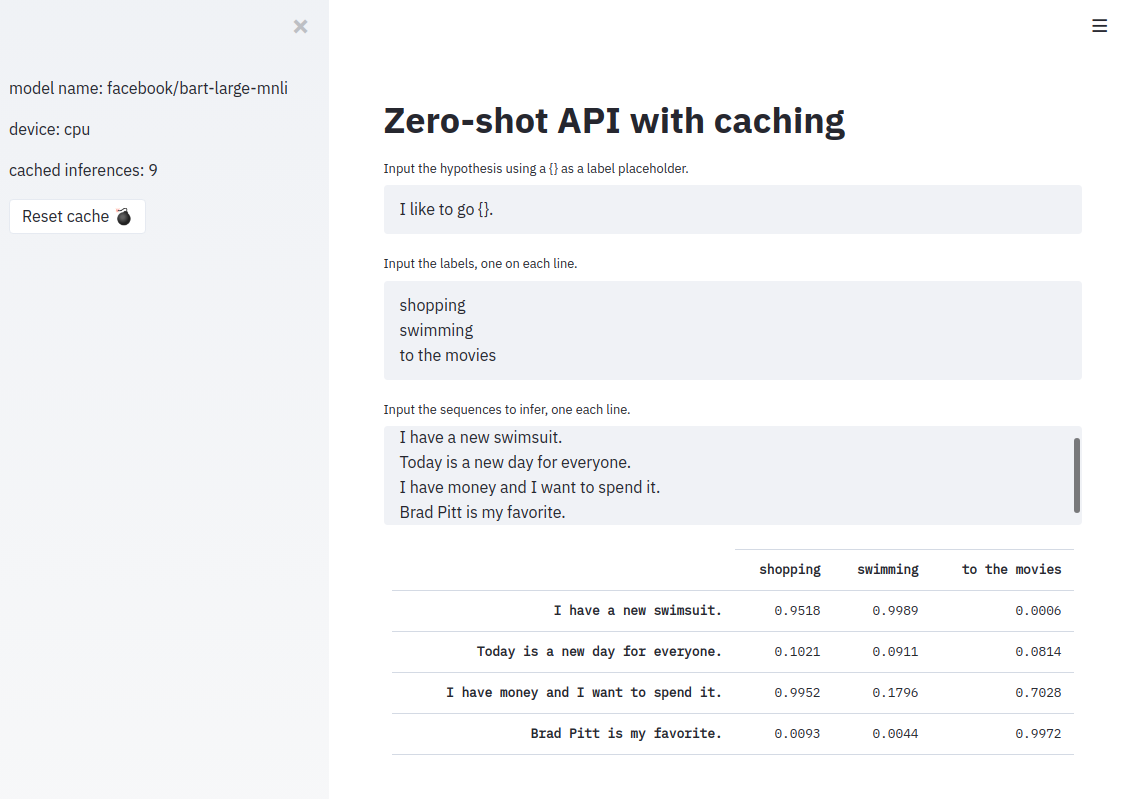
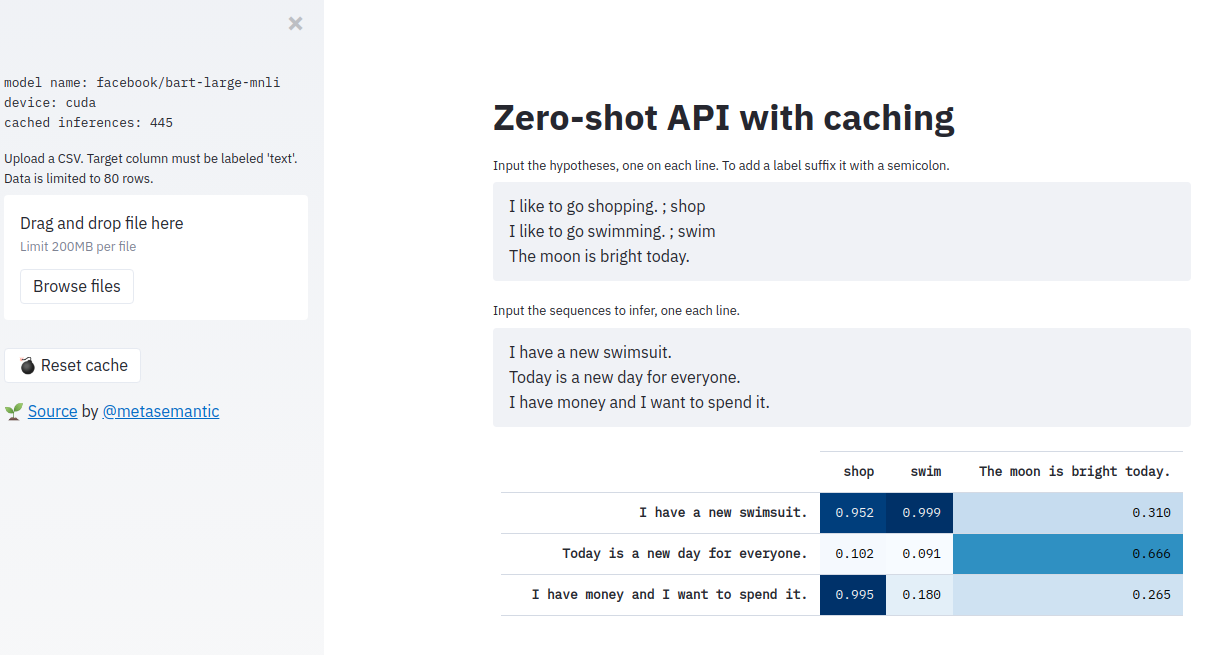
Updated docs and image

diff --git a/demo_api.py b/demo_api.py
@@ -21,7 +21,7 @@ params = {
 
 # Clean the cache for testing
 requests.get(base_url + "/flush_cache")
-print(requests.get(base_url + "/count_cache").json())
+print(requests.get(base_url + "/dbsize").json())
 
 with Timer() as timer0:
     r = requests.get(base_url + "/infer", json=params)
@@ -37,7 +37,9 @@ if not r.ok:
 # Check that we can convert to a dataframe
 df = pd.read_json(r.json())
 print(df)
-print(requests.get(base_url + "/count_cache").json())
+exit()
+
+print(requests.get(base_url + "/dbsize").json())
 
 
 with Timer() as timer1:

diff --git a/README.md b/README.md
@@ -19,8 +19,7 @@ import pandas as pd
 url = 'http://127.0.0.1:8000/infer'
 
 params = {
-    "hypothesis": "I like to go {}",
-    "labels": ["shopping", "swimming"],
+    "hypotheses": ["I like to go swimming", "I like to go shopping",],
     "sequences": [
         "I have a new swimsuit.",
         "Today is a new day for everyone.",
@@ -36,10 +35,11 @@ print(df)
 This gives
 
 ```
-                                      shopping  swimming
-I have a new swimsuit.                0.809227  0.969889
-Today is a new day for everyone.      0.162844  0.186688
-I have money and I want to spend it.  0.972724  0.384538
+
+                               I like to go swimming  I like to go shopping
+I have a new swimsuit.                      0.969889               0.809227
+Today is a new day for everyone.            0.186691               0.162844
+I have money and I want to spend it.        0.384539               0.972724
 ```
 
 With the API running, you can experiment with a barebones streamlit interface:
